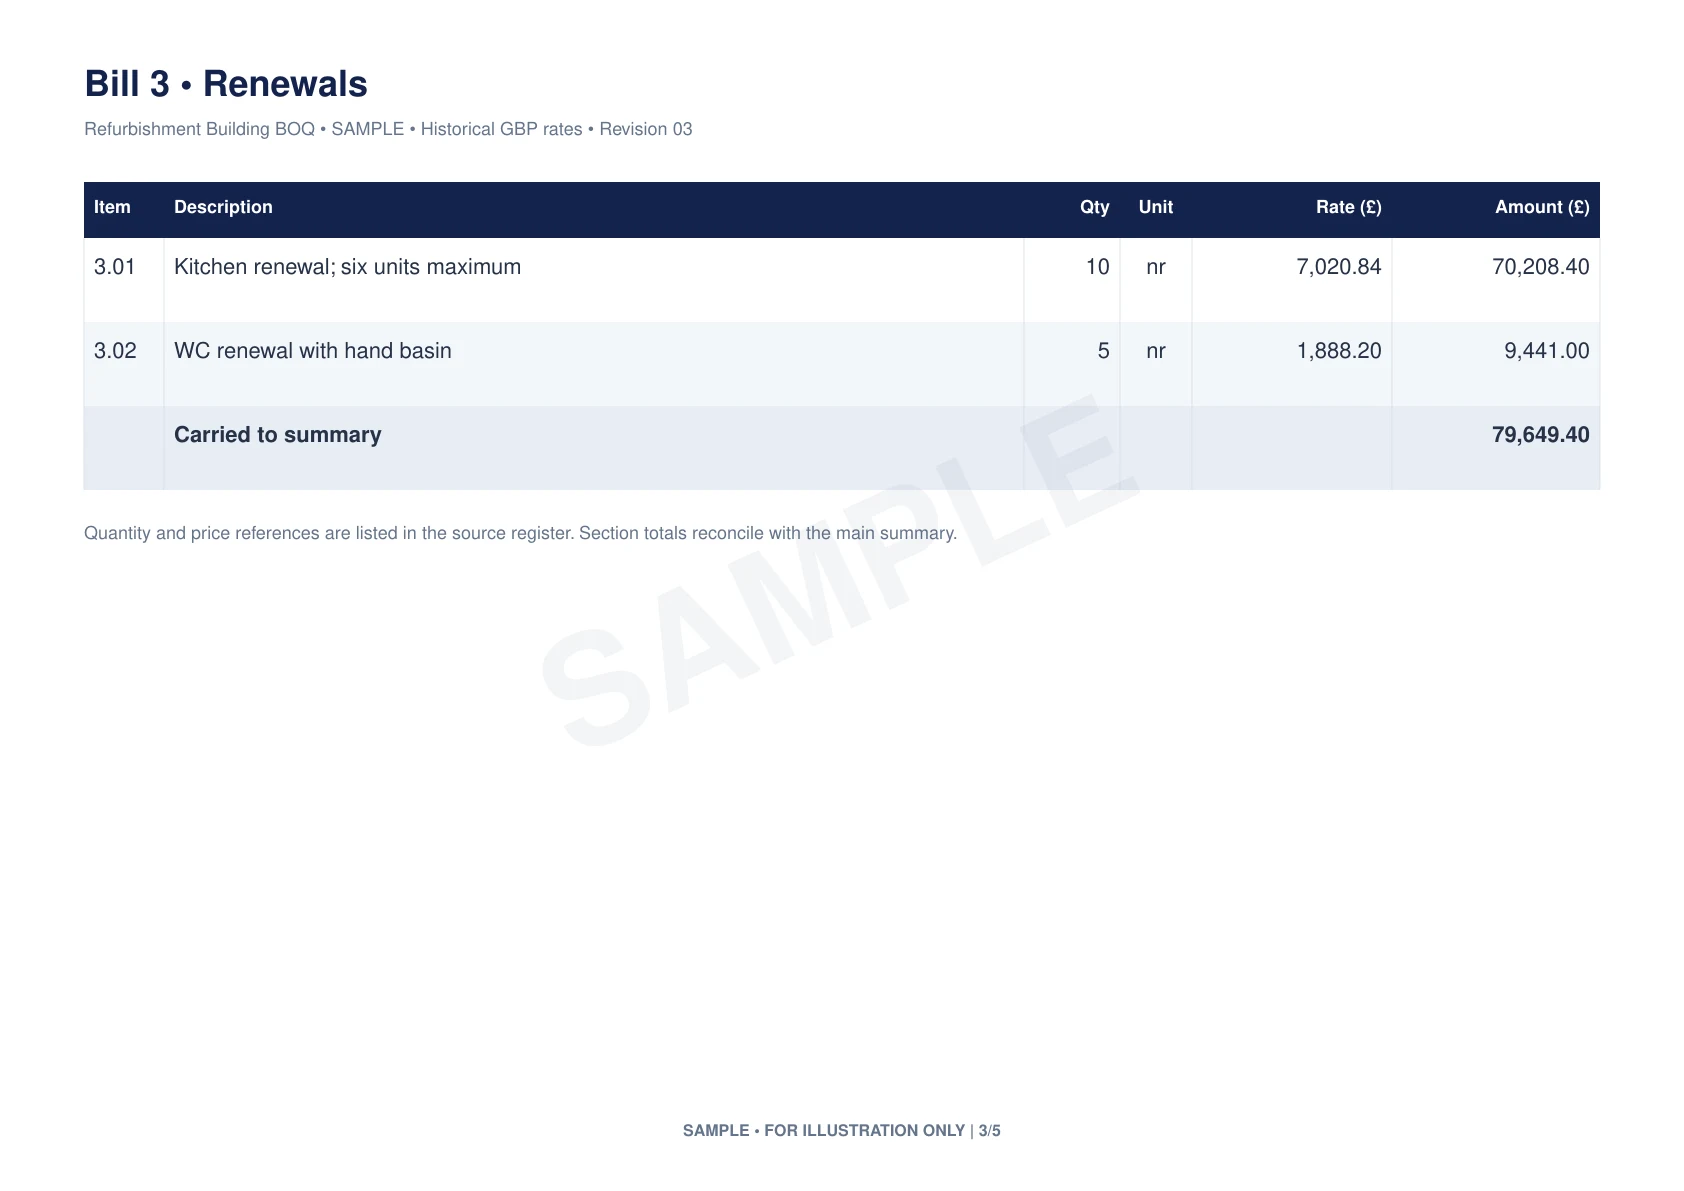
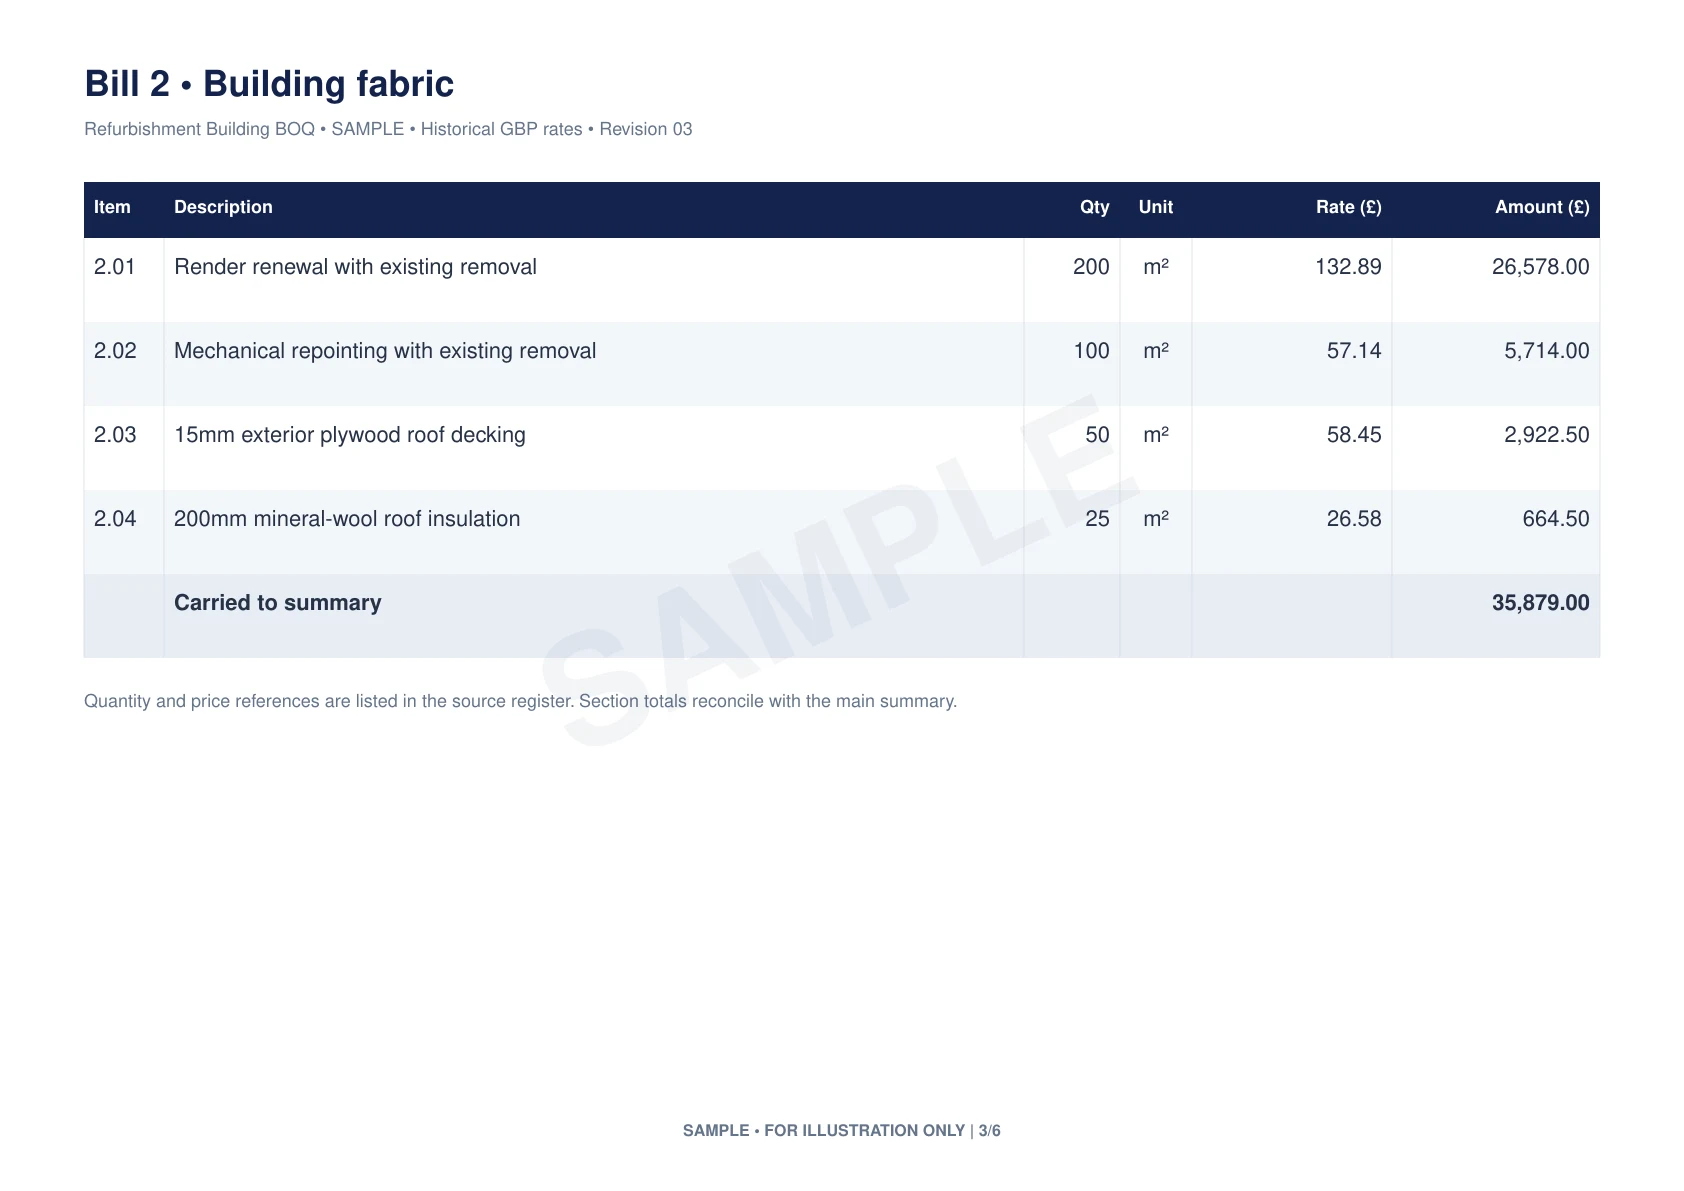
Update founder About section and add refurbishment BOQ cover

diff --git a/client/src/pages/marketing/LandingPage.tsx b/client/src/pages/marketing/LandingPage.tsx
@@ -24,7 +24,7 @@ const services = [
 ]
 const audiences = ['Building contractors', 'Fit-out & refurbishment', 'Joinery contractors', 'Groundworks', 'Roofing & decorating', 'Specialist subcontractors']
 const boqSamples = [
-  { id: '1', title: 'Refurbishment Building BOQ', description: 'A priced refurbishment example with reference rates, trade bills and a reconciled cost summary.', pages: 5, preview: 'boq-sample' },
+  { id: '1', title: 'Refurbishment Building BOQ', description: 'A priced refurbishment example with reference rates, trade bills and a reconciled cost summary.', pages: 6, preview: 'boq-sample' },
   { id: '2', title: '5 Unit 2 Bedroom Building BOQ', description: 'A complete project document with a named cover, detailed bills, cost summary and measurement basis.', pages: 33, preview: 'boq-client-completed' },
 ]
 const process = [
@@ -121,7 +121,36 @@ export default function LandingPage() {
         </div>
       </section>
 
-      <section id="about" className="scroll-mt-20 bg-surface-100 px-5 py-20 sm:px-8 lg:px-10 lg:py-24"><div className="mx-auto grid max-w-[1400px] items-center gap-12 lg:grid-cols-2 lg:gap-20"><div className="relative"><img src={media.detail} alt="Construction professionals working on a project" loading="lazy" className="h-[360px] w-full rounded-2xl object-cover shadow-xl sm:h-[470px]"/><div className="absolute -bottom-5 right-4 max-w-[270px] rounded-xl bg-amber-300 p-5 shadow-xl sm:-right-5"><div className="flex items-center gap-2 text-[10px] font-extrabold uppercase tracking-[.16em]"><Sparkles size={14}/> Built around your workload</div><p className="mt-2 font-display text-lg font-semibold leading-6">Professional support, exactly when you need it.</p></div></div><div className="pt-4 lg:pt-0"><p className="mb-4 flex items-center gap-2 text-[11px] font-extrabold uppercase tracking-[.22em] text-amber-800"><span className="h-px w-7 bg-amber-700"/> A flexible extension of your team</p><h2 className="font-display text-4xl font-semibold leading-tight tracking-[-.04em] sm:text-5xl">Keep your team focused on <span className="text-slate-500">getting the work built.</span></h2><p className="mt-6 text-base leading-8 text-slate-600">When several tenders land at once, measuring and pricing can stretch your team. Aurum provides additional estimating, quantity surveying and commercial capacity—so you can focus on delivery while your tender information stays organised.</p><div className="mt-8 grid gap-4 sm:grid-cols-2">{['No recruitment process','No permanent salary commitment','Clear agreed scope','Digital deliverables'].map(item => <div key={item} className="flex items-center gap-3 text-sm font-semibold"><span className="flex h-7 w-7 items-center justify-center rounded-full bg-white text-emerald-700"><Check size={14}/></span>{item}</div>)}</div><Link to="/request-quote" className="mt-9 inline-flex items-center gap-3 rounded-lg bg-navy-900 px-5 py-3.5 text-sm font-bold text-white transition hover:bg-navy-800">Talk to Aurum <ArrowRight size={16}/></Link></div></div></section>
+      <section id="about" className="scroll-mt-20 bg-surface-100 px-5 py-20 sm:px-8 lg:px-10 lg:py-24">
+        <div className="mx-auto max-w-[1400px]">
+          <div className="max-w-4xl">
+            <p className="mb-4 text-[11px] font-extrabold uppercase tracking-[.22em] text-amber-800">About Aurum</p>
+            <h2 className="font-display text-4xl font-semibold leading-tight tracking-[-.04em] sm:text-5xl">Aurum Project Controls</h2>
+            <p className="mt-4 text-sm font-semibold text-amber-800">Quantity surveying <span className="mx-2" aria-hidden="true">|</span> Estimating <span className="mx-2" aria-hidden="true">|</span> Commercial support</p>
+            <p className="mt-6 text-base leading-8 text-slate-600">Aurum Project Controls is a founder-led quantity surveying and estimating practice based in Aberdeen. We help building contractors and specialist subcontractors turn drawings and scope information into clear quantities, tender estimates and commercial documents. Each assignment starts with an agreed scope, deliverables, programme and fee.</p>
+          </div>
+          <div className="mt-12 grid gap-10 lg:grid-cols-[1.15fr_1fr] lg:gap-16">
+            <div>
+              <h3 className="font-display text-2xl font-semibold">Meet the founder</h3>
+              <p className="mt-4 text-sm leading-7 text-slate-600">Jeremiah Elisha Gwani brings more than 12 years of quantity surveying experience, primarily from contractor and consultancy work in Nigeria. His work has covered measurement, Bills of Quantities, tender preparation and analysis, procurement, valuations, variations, cost reporting and final accounts across building, healthcare and services-intensive projects.</p>
+              <p className="mt-4 text-sm leading-7 text-slate-600">Jeremiah holds a bachelor’s degree in Quantity Surveying from Ahmadu Bello University, Zaria, and a Professional Diploma in NEC Contracts. He is a Member of the Nigerian Institute of Quantity Surveyors (MNIQS) and a Registered Quantity Surveyor in Nigeria (RQS). He is based in Aberdeen and leads Aurum’s client discussions and commercial work.</p>
+              <h3 className="mt-8 font-display text-2xl font-semibold">Experience Jeremiah brings</h3>
+              <p className="mt-4 text-sm leading-7 text-slate-600">In previous consultancy roles, Jeremiah worked on subcontract packages, payment valuations, procurement and final accounts. This is his founder experience from earlier employment. Aurum assignments will be identified separately as they are delivered and approved for disclosure.</p>
+            </div>
+            <div className="rounded-2xl border border-black/[.06] bg-white p-6 sm:p-8">
+              <h3 className="font-display text-2xl font-semibold">How Aurum can help</h3>
+              <ul className="mt-5 space-y-5 text-sm leading-7 text-slate-600">
+                <li><span className="font-semibold text-navy-900">Quantity take-offs and Bills of Quantities</span> — measured, structured information for pricing and review.</li>
+                <li><span className="font-semibold text-navy-900">Tender estimating and analysis</span> — labour, materials, plant, subcontractors and preliminaries set out with clear assumptions.</li>
+                <li><span className="font-semibold text-navy-900">Commercial support</span> — valuations, variations, cost reporting and contract administration within an agreed scope.</li>
+              </ul>
+              <h3 className="mt-8 border-t border-slate-100 pt-7 font-display text-2xl font-semibold">Service area and contact</h3>
+              <p className="mt-4 text-sm leading-7 text-slate-600">Based in Aberdeen, Scotland. Project enquiries from Aberdeen, Aberdeenshire and elsewhere in the UK are considered by agreement, including work delivered remotely. To discuss a tender or commercial support requirement, send the project details through <Link to="/request-quote" className="font-semibold text-navy-900 underline underline-offset-4">www.aurumite.com/request-quote</Link>.</p>
+              <Link to="/request-quote" className="mt-7 inline-flex items-center gap-3 rounded-lg bg-navy-900 px-5 py-3.5 text-sm font-bold text-white transition hover:bg-navy-800">Discuss your project <ArrowRight size={16}/></Link>
+            </div>
+          </div>
+        </div>
+      </section>
 
       <section id="how" className="scroll-mt-20 bg-navy-900 px-5 py-20 text-white sm:px-8 lg:px-10 lg:py-24"><div className="mx-auto max-w-[1400px]"><div className="flex flex-col justify-between gap-5 md:flex-row md:items-end"><div><p className="mb-4 flex items-center gap-2 text-[11px] font-extrabold uppercase tracking-[.22em] text-amber-300"><span className="h-px w-7 bg-amber-300"/> How it works</p><h2 className="font-display text-4xl font-semibold tracking-[-.04em] sm:text-5xl">Simple from first drawing<br className="hidden sm:block"/> to final deliverable.</h2></div><p className="max-w-sm text-sm leading-7 text-white/55">Clear steps. Agreed expectations. No surprises about what is included.</p></div><div className="mt-14 grid gap-0 md:grid-cols-4">{process.map((item, i) => <div key={item.number} className="relative border-t border-white/15 py-7 md:border-t md:px-6 md:first:pl-0 md:last:pr-0"><div className="mb-7 flex items-center justify-between"><span className="font-display text-4xl font-light text-amber-300/80">{item.number}</span>{i < 3 && <MoveRight className="hidden text-white/25 md:block" size={22}/>}</div><h3 className="font-display text-xl font-semibold">{item.title}</h3><p className="mt-3 max-w-xs text-sm leading-6 text-white/55">{item.text}</p></div>)}</div><div className="mt-6 rounded-2xl border border-white/10 bg-white/[.045] p-5 sm:flex sm:items-center sm:justify-between sm:p-7"><div className="flex items-start gap-4"><div className="rounded-xl bg-amber-300/10 p-3 text-amber-300"><UploadCloud size={22}/></div><div><div className="font-display text-lg font-semibold">Have a tender deadline coming up?</div><p className="mt-1 text-sm text-white/55">Send the information you have. We’ll review the scope and come back with next steps.</p></div></div><Link to="/request-quote" className="mt-5 inline-flex shrink-0 items-center gap-2 rounded-lg bg-amber-400 px-5 py-3 text-xs font-extrabold text-navy-900 transition hover:bg-amber-300 sm:mt-0">Start a quote request <ArrowRight size={15}/></Link></div></div></section>
 

diff --git a/server/scripts/create-priced-boq-sample.ts b/server/scripts/create-priced-boq-sample.ts
@@ -28,6 +28,18 @@ async function main() {
   const align = (column: number): 'left' | 'center' | 'right' => column === 3 ? 'center' : column >= 2 ? 'right' : 'left'
   let first = true
   let y = 0
+  doc.rect(0, 0, doc.page.width, doc.page.height).fill('#f8fafc')
+  doc.rect(0, 0, 18, doc.page.height).fill('#b58a45')
+  doc.fillColor('#13234d').font('Helvetica-Bold').fontSize(18).text('AURUM', 62, 60)
+  doc.font('Helvetica').fontSize(10).text('PROJECT CONTROLS', 62, 86)
+  doc.fillColor('#b58a45').font('Helvetica-Bold').fontSize(11).text('SAMPLE PROJECT DOCUMENT', 62, 158)
+  doc.fillColor('#13234d').fontSize(32).text('Refurbishment\nBuilding BOQ', 62, 194, { width: 700 })
+  doc.font('Helvetica').fontSize(20).text('Bill of Quantities', 62, 290)
+  doc.moveTo(62, 335).lineTo(780, 335).strokeColor('#b58a45').stroke()
+  doc.fontSize(11).text('DOCUMENT REF.   AUR-SAMPLE-BOQ-001     |     REVISION 04', 62, 357)
+  doc.text('Prepared by Aurum Project Controls', 62, 386)
+  doc.fillColor('#64748b').fontSize(10).text('Priced refurbishment trade bills and reconciled cost summary.\nPublished evaluation quantities and historical GBP reference rates.\nIllustrative sample only; not issued for tender or construction.', 62, 432, { width: 700, lineGap: 6 })
+  first = false
   function page(title: string) {
     if (!first) doc.addPage()
     first = false

diff --git a/client/src/pages/marketing/BoqSamplePage.tsx b/client/src/pages/marketing/BoqSamplePage.tsx
@@ -3,7 +3,7 @@ import { Link, Navigate, useParams } from 'react-router-dom'
 import { ArrowLeft, ChevronLeft, ChevronRight, Download, ZoomIn, ZoomOut } from 'lucide-react'
 
 const samples = {
-  '1': { title: 'Refurbishment Building BOQ', pages: 5, file: 'boq-sample', description: 'Priced refurbishment example with historical reference rates, detailed trade bills and a cost summary. For illustration only.' },
+  '1': { title: 'Refurbishment Building BOQ', pages: 6, file: 'boq-sample', description: 'Priced refurbishment example with historical reference rates, detailed trade bills and a cost summary. For illustration only.' },
   '2': { title: '5 Unit 2 Bedroom Building BOQ', pages: 33, file: 'boq-client-completed', description: 'Complete bill of quantities with a project cover, cost summary and detailed quantity basis. Modelled quantities and supplied rates. For illustration only.' },
 }
 

diff --git a/docs/boq-samples.md b/docs/boq-samples.md
@@ -17,4 +17,4 @@ python server/scripts/render-boq-previews.py
 
 The original source workbook remains unchanged. Completion uses an explicit five-dwelling sample model. Quantities are not actual site measurements. Structural allowances and reinforcement allocations are provisional. Original supplied GBP rates are preserved; they are not asserted to be current market prices. The illustrative VAT calculation requires verification for a live project.
 
-Mobile viewers use five and 33 static WebP pages respectively with page navigation and zoom. Regenerate the previews whenever the PDF changes. PDF is the only public download format.
+Mobile viewers use six and 33 static WebP pages respectively with page navigation and zoom. Regenerate the previews whenever the PDF changes. PDF is the only public download format.
